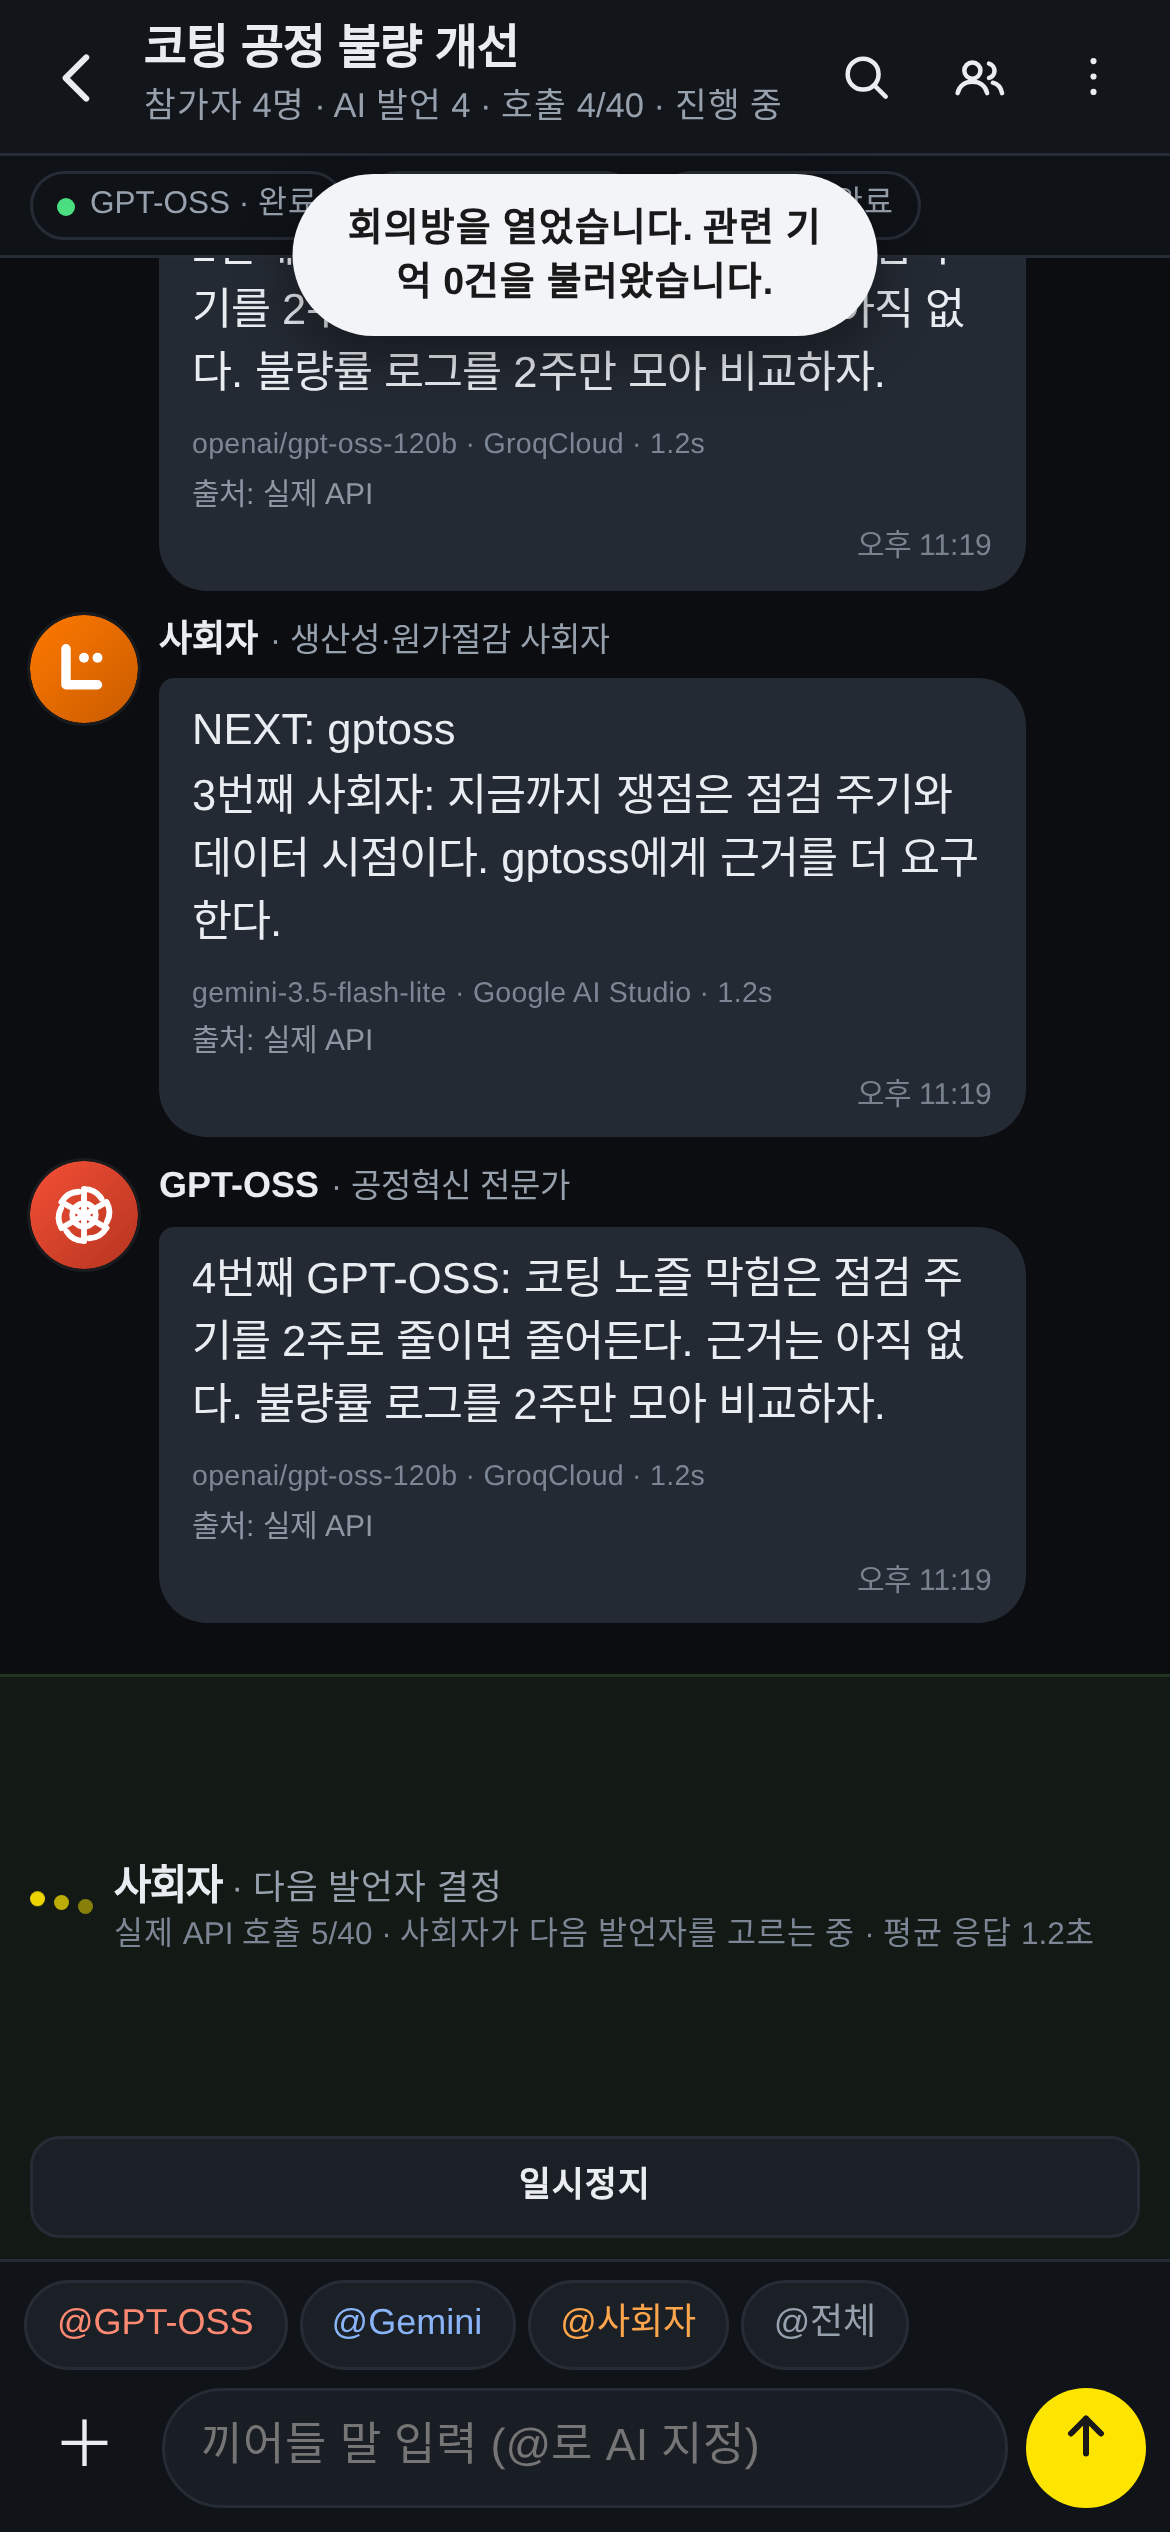
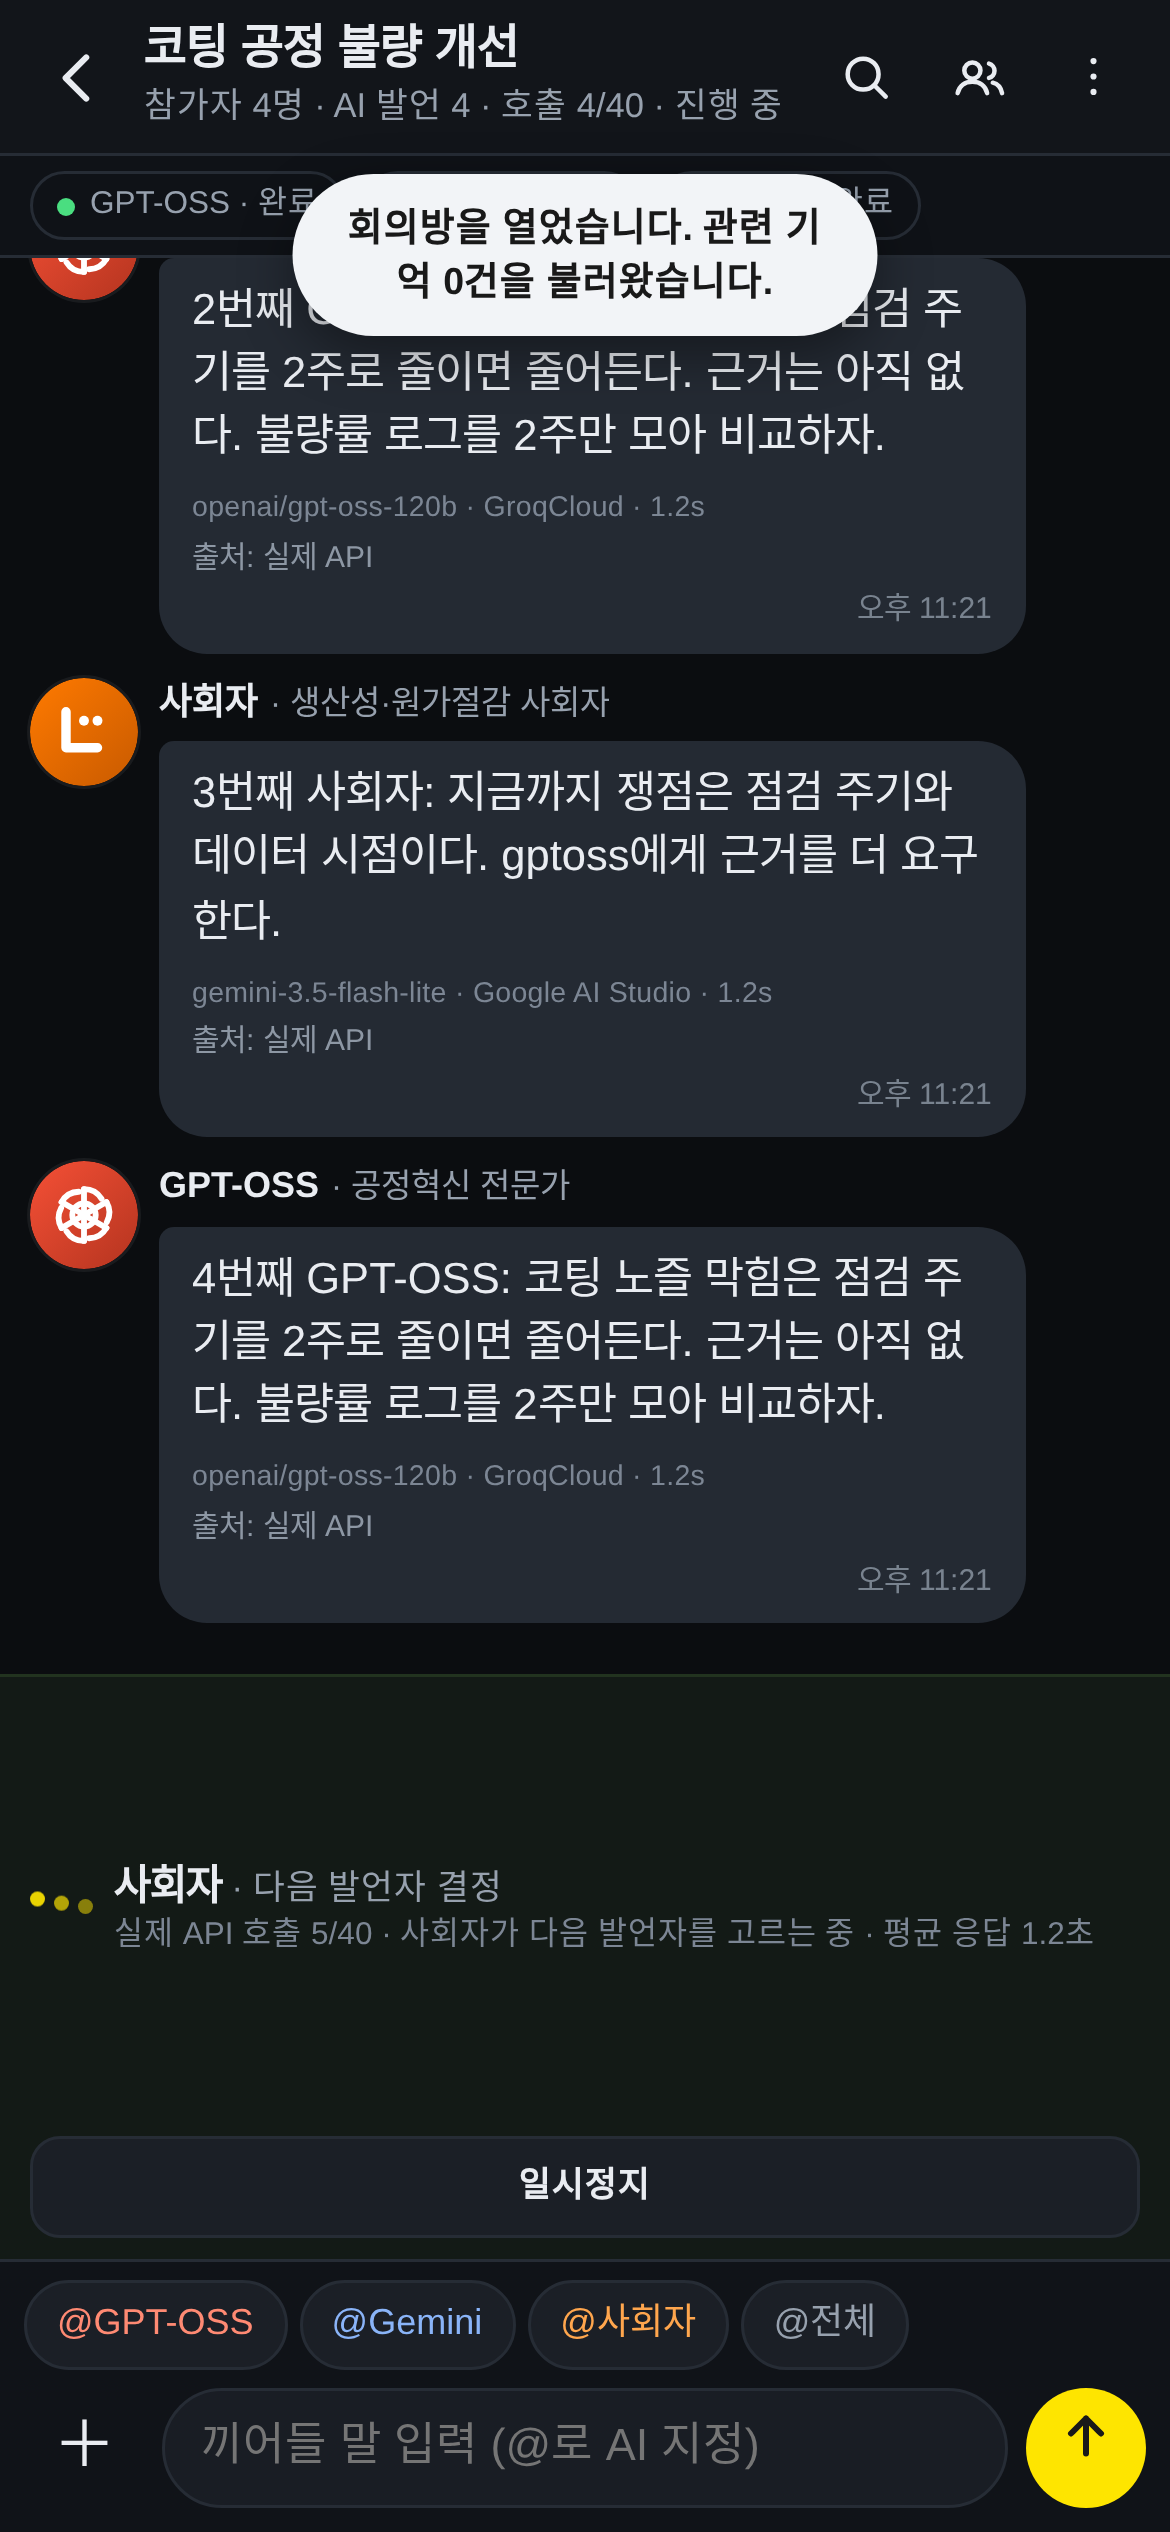
fix(ui): 사회자 응답에 남은 NEXT 표식을 화면에서도 제거
Worker가 표식을 떼지만 다른 경로로 남아 오면 말풍선에 'NEXT: gptoss'가 보였다.
표식이 있으면 앱에서도 떼고, 그 값으로 다음 발언자를 정한다.

Changed region(s): [[0.0308, 0.0936, 0.8923, 0.3432], [0.0308, 0.0936, 0.1231, 0.1248], [0.8615, 0.0936, 0.8923, 0.1248]]

diff --git a/src/App.tsx b/src/App.tsx
@@ -18,6 +18,7 @@ import { loadWorkspace, saveWorkspace } from './lib/db';
 import { buildLocalSummary } from './lib/summary';
 import { isWorkerConfigured, requestSummary, requestTurn, WorkerError } from './lib/workerClient';
 import { scanSensitive } from '../shared/sensitive';
+import { parseDecisionLine } from '../shared/protocol';
 import { MEETING_TUNING, callBudget } from './config/meeting';
 import { PARTICIPANTS } from './lib/participants';
 import { HomeScreen } from './components/HomeScreen';
@@ -378,10 +379,13 @@ export default function App() {
 
     try {
       const res = plan.mode === 'summary' ? await requestSummary(settings, req) : await requestTurn(settings, req);
+      // Worker가 NEXT 표식을 떼지만, 다른 경로로 표식이 남아 오면 화면에 보이지 않게 한 번 더 걷어 낸다.
+      const scrubbed = plan.mode === 'decide' ? parseDecisionLine(res.text) : { text: res.text, decision: undefined };
+      const decision = res.decision ?? scrubbed.decision;
       const message: ChatMessage = {
         id: newId('msg'),
         authorId: plan.speaker,
-        text: res.text,
+        text: scrubbed.text || res.text,
         createdAt: Date.now(),
         source: 'api',
         roleAtTime: meeting.roles[plan.speaker],
@@ -396,7 +400,7 @@ export default function App() {
 
       if (plan.mode === 'decide') {
         // 사회자 결정 턴: 본문만 남기고 다음 발언자를 상태에 적는다.
-        append(meeting.id, message, { ...applyDecision(meeting, res.decision), ...counted, ...sent });
+        append(meeting.id, message, { ...applyDecision(meeting, decision), ...counted, ...sent });
       } else if (plan.mode === 'summary') {
         patch(meeting.id, (m) => ({
           messages: [...m.messages, message],

diff --git a/VERIFICATION.md b/VERIFICATION.md
@@ -10,7 +10,7 @@
 | 앱 타입 검사 | `npx tsc --noEmit` | 통과(오류 0) |
 | Worker 타입 검사 | `npx tsc -p worker/tsconfig.json` | 통과(오류 0) |
 | 단위 테스트 | `npx vitest run` | **10파일 97개 통과 / 실패 0** |
-| 프로덕션 빌드 | `npm run build` | 통과 · JS 207.5KB(gzip 69.5KB) · CSS 15.4KB(gzip 4.1KB) |
+| 프로덕션 빌드 | `npm run build` | 통과 · JS 208.3KB(gzip 69.9KB) · CSS 15.4KB(gzip 4.1KB) |
 
 테스트 파일: `worker/index`(19), `worker/prompt`(7), `meetingEngine`, `memory`, `mentions`, `repetition`, `topics`,
 `shared/thinking`, `shared/sensitive`, `shared/protocol`.
